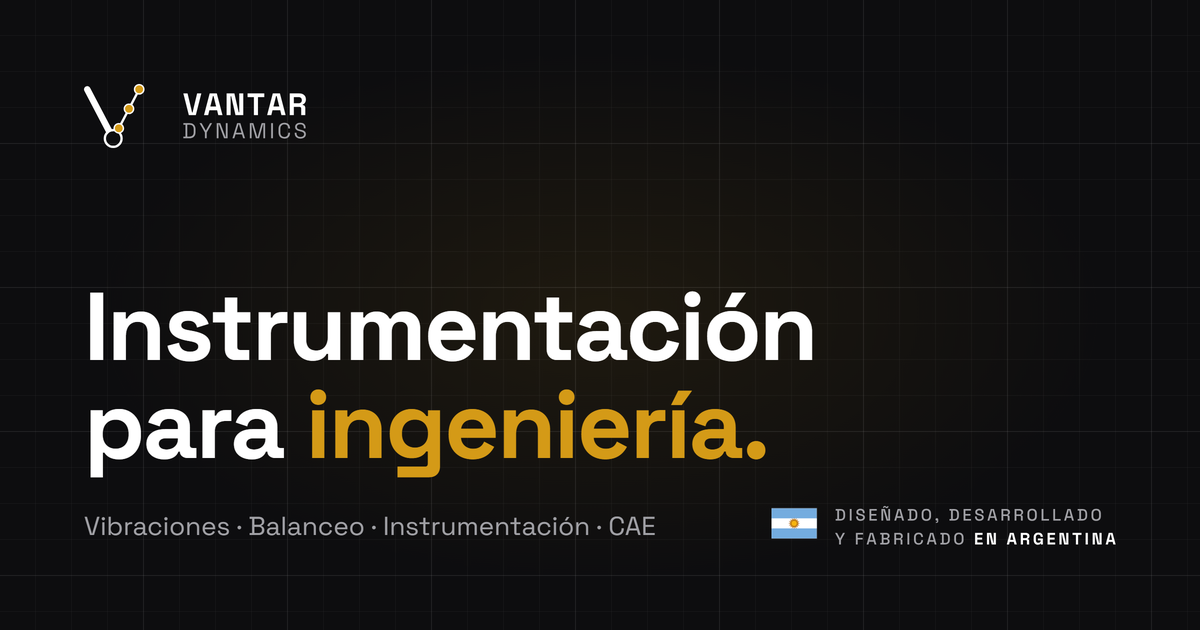
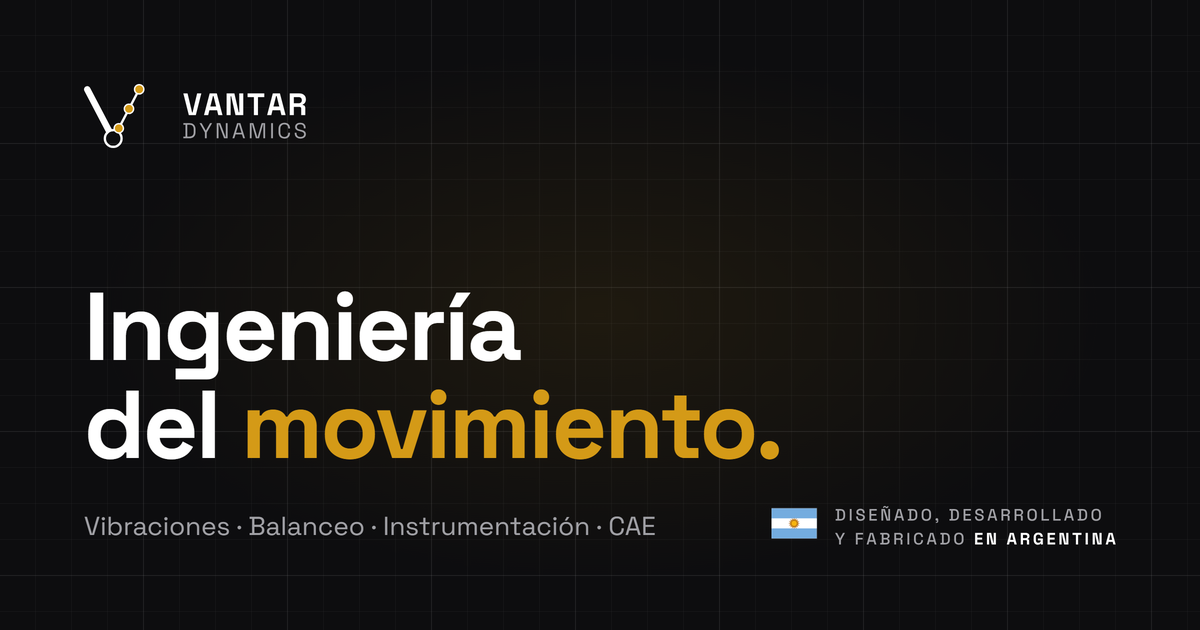
Vuelve el eslogan «Ingeniería del movimiento.»

Changed region(s): [[0.0617, 0.4524, 0.6783, 0.7841]]

diff --git a/index.html b/index.html
@@ -11,7 +11,7 @@
   <!-- Open Graph -->
   <meta property="og:type" content="website" />
   <meta property="og:title" content="VANTAR Dynamics" />
-  <meta property="og:description" content="Instrumentación para ingeniería. Hecho en Argentina." />
+  <meta property="og:description" content="Ingeniería del movimiento. Hecho en Argentina." />
   <meta property="og:image" content="./assets/og-image.png" />
   <meta property="og:image:width" content="1200" />
   <meta property="og:image:height" content="630" />
@@ -63,7 +63,7 @@
           </div>
           <svg class="word" viewBox="0.360 0 79.280 29.3" role="img" aria-label="VANTAR Dynamics"><path d="M3.92 14.0H8.44L12.0 0.0H9.28L6.32 12.3H6.04L3.08 0.0H0.36Z M13.719999999999999 14.0H16.439999999999998L17.2 10.92H22.2L22.96 14.0H25.68L22.0 0.0H17.4ZM17.82 8.48 19.52 1.6600000000000001H19.88L21.58 8.48Z M28.36 14.0H30.96V1.799999999999999H31.32L34.1 14.0H39.12V0.0H36.519999999999996V12.2H36.16L33.379999999999995 0.0H28.36Z M46.0 14.0H48.64V2.4000000000000004H52.72V0.0H41.919999999999995V2.4000000000000004H46.0Z M54.559999999999995 14.0H57.279999999999994L58.03999999999999 10.92H63.03999999999999L63.8 14.0H66.52L62.839999999999996 0.0H58.239999999999995ZM58.66 8.48 60.36 1.6600000000000001H60.72L62.419999999999995 8.48Z M69.19999999999999 14.0H71.83999999999999V8.719999999999999H75.52C76.3 8.719999999999999 76.6 9.16 76.6 9.8V14.0H79.24V9.42C79.24 8.3 78.61999999999999 7.58 77.56 7.52V7.16C78.74 6.68 79.64 5.66 79.64 3.9800000000000004V3.74C79.64 1.4800000000000004 77.89999999999999 0.0 75.28 0.0H69.19999999999999ZM71.83999999999999 6.32V2.4000000000000004H75.0C76.28 2.4000000000000004 77.0 3.1400000000000006 77.0 4.26V4.459999999999999C77.0 5.58 76.24 6.32 75.0 6.32Z" fill="#FFFFFF"/><path d="M0.36 29.0H4.182C6.758 29.0 8.228 27.726 8.228 25.009999999999998V23.189999999999998C8.228 20.488 6.758 19.2 4.182 19.2H0.36V20.25H1.7320000000000002V27.95H0.36ZM2.908 27.936V20.278H4.182C6.072 20.278 7.066 21.16 7.066 23.148V25.066C7.066 27.04 6.072 27.936 4.182 27.936Z M14.3222 29.0H15.4982V25.262L18.9842 19.2H17.6402L15.0082 23.89H14.8122L12.1802 19.2H10.8362L14.3222 25.262Z M21.956400000000002 29.0H23.1184V19.927999999999997H23.314400000000003L26.7164 29.0H28.998400000000004V19.2H27.8364V28.258H27.654400000000003L24.238400000000002 19.2H21.956400000000002Z M32.138600000000004 29.0H33.3566L34.1126 26.522H38.284600000000005L39.040600000000005 29.0H40.2586L37.2346 19.2H35.162600000000005ZM34.4206 25.458 36.1006 19.914H36.296600000000005L37.976600000000005 25.458Z M43.3848 29.0H44.5188V19.97H44.714800000000004L47.3048 29.0H49.3348L51.924800000000005 19.97H52.1208V29.0H53.2548V19.2H51.0148L48.4108 28.258H48.2288L45.6248 19.2H43.3848Z M57.150999999999996 29.0H58.327V19.2H57.150999999999996Z M65.76520000000001 29.196C68.0752 29.196 69.3632 27.81 69.3632 25.584V25.402H68.2012V25.626C68.2012 27.096 67.4312 28.146 65.76520000000001 28.146C64.0992 28.146 63.1192 27.068 63.1192 25.248V22.951999999999998C63.1192 21.131999999999998 64.0992 20.054000000000002 65.76520000000001 20.054000000000002C67.4312 20.054000000000002 68.2012 21.104 68.2012 22.573999999999998V22.686H69.3632V22.616C69.3632 20.39 68.0752 19.003999999999998 65.76520000000001 19.003999999999998C63.4412 19.003999999999998 61.943200000000004 20.39 61.943200000000004 22.98V25.22C61.943200000000004 27.81 63.4412 29.196 65.76520000000001 29.196Z M76.1294 29.196C78.2574 29.196 79.6434 28.062 79.6434 26.326C79.6434 24.604 78.3134 23.96 76.6194 23.567999999999998L75.8914 23.386C74.5894 23.064 73.8194 22.714 73.8194 21.664C73.8194 20.613999999999997 74.6594 20.026 75.9614 20.026C77.30539999999999 20.026 78.2854 20.613999999999997 78.2854 22.028V22.616H79.4474V22.028C79.4474 20.026 77.9354 19.003999999999998 75.9614 19.003999999999998C73.9874 19.003999999999998 72.6574 20.026 72.6574 21.678C72.6574 23.33 73.8334 24.002 75.5694 24.422L76.2974 24.604C77.6134 24.912 78.4814 25.276 78.4814 26.354C78.4814 27.404 77.6554 28.174 76.1294 28.174C74.6314 28.174 73.5814 27.404 73.5814 25.766V25.472H72.4194V25.766C72.4194 28.062 73.9874 29.196 76.1294 29.196Z" fill="#A1A1A6"/></svg>
         </div>
-        <h1 class="slogan">Instrumentación para ingeniería.</h1>
+        <h1 class="slogan">Ingeniería del movimiento.</h1>
         <p class="hecho-ar"><svg class="flag" viewBox="0 0 30 20" role="img" aria-label="Bandera argentina"><use href="#flag-ar"/></svg><span>Hecho en Argentina</span></p>
         <p class="lead">Medimos, entendemos y resolvemos el comportamiento dinámico de las máquinas: vibraciones, balanceo, instrumentación y simulación.</p>
         <button class="cta-texto" data-go="contact">¿Necesitás definir un nuevo producto? <span>Contanos</span> →</button>

diff --git a/README.md b/README.md
@@ -1,6 +1,6 @@
 # VANTAR Dynamics — sitio web
 
-**Instrumentación para ingeniería.** Sitio de VANTAR Dynamics: consultoría de ingeniería (instrumentación,
+**Ingeniería del movimiento.** Sitio de VANTAR Dynamics: consultoría de ingeniería (instrumentación,
 vibraciones, simulación CAE, ingeniería de producto), productos propios en desarrollo (BalanSense y
 VibraSense) y un Toolbox que mide con los sensores del celular.
 
